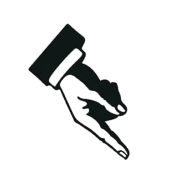
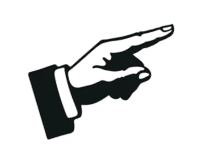
update new cursor

Changed region(s): [[0.1081, 0.1342, 0.8108, 0.9396]]

diff --git a/src/components/core/Cursor.jsx b/src/components/core/Cursor.jsx
@@ -1,5 +1,5 @@
 import { useState, useEffect } from "react";
-import CursorSrc from '/Pointers/cursor.jpg';
+import CursorSrc from '/Pointers/cursor.png';
 import styled from 'styled-components';
 
 const CursorWrapper = styled.div.attrs(props => ({
@@ -31,8 +31,8 @@ const Cursor = () => {
   const [position, setPosition] = useState({ x: 0, y: 0 });
   const [isPointer, setPointer] = useState(false);
   const [offset, setOffset] = useState({
-    x: -22,
-    y: 5,
+    x: -26,
+    y: -1,
     deg: 0
   });
 
@@ -47,14 +47,14 @@ const Cursor = () => {
       if (e.target.classList.contains('m-pointer') || (e.target.parentNode && e.target.parentNode?.classList?.contains('m-pointer'))) {
         setPointer(true);
         setOffset({
-          x: 5,
-          y: 8,
+          x: -3,
+          y: 13,
           deg: -40
         })
       } else {
         setOffset({
-          x: -22,
-          y: 5,
+          x: -26,
+          y: -1,
           deg: 0
         })
         setPointer(false);
